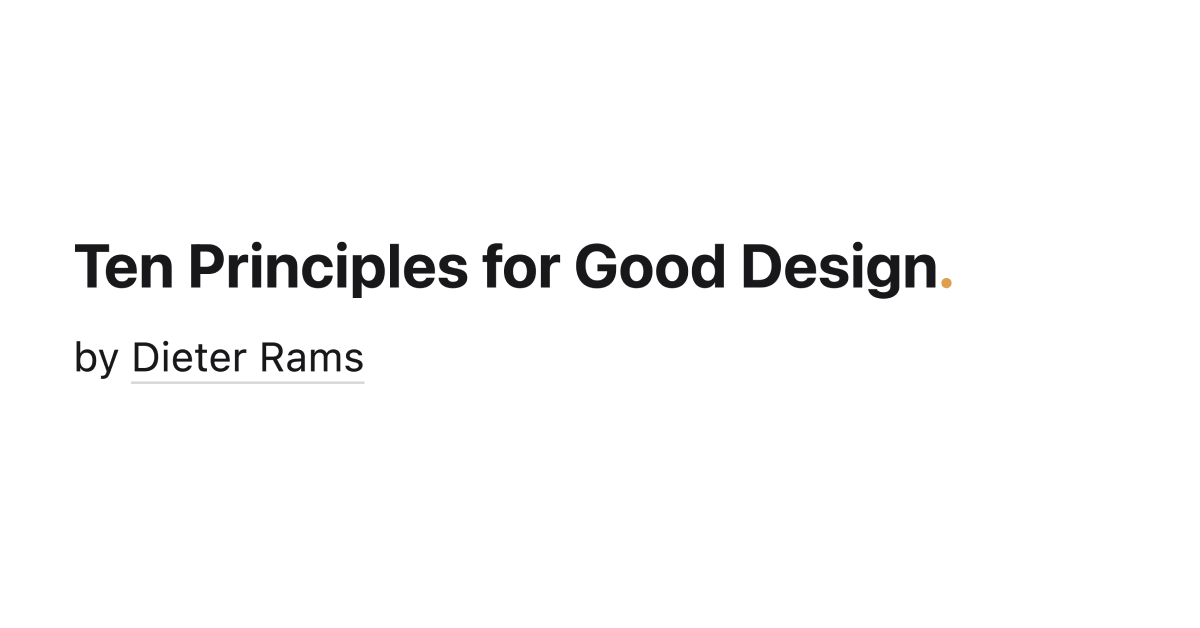
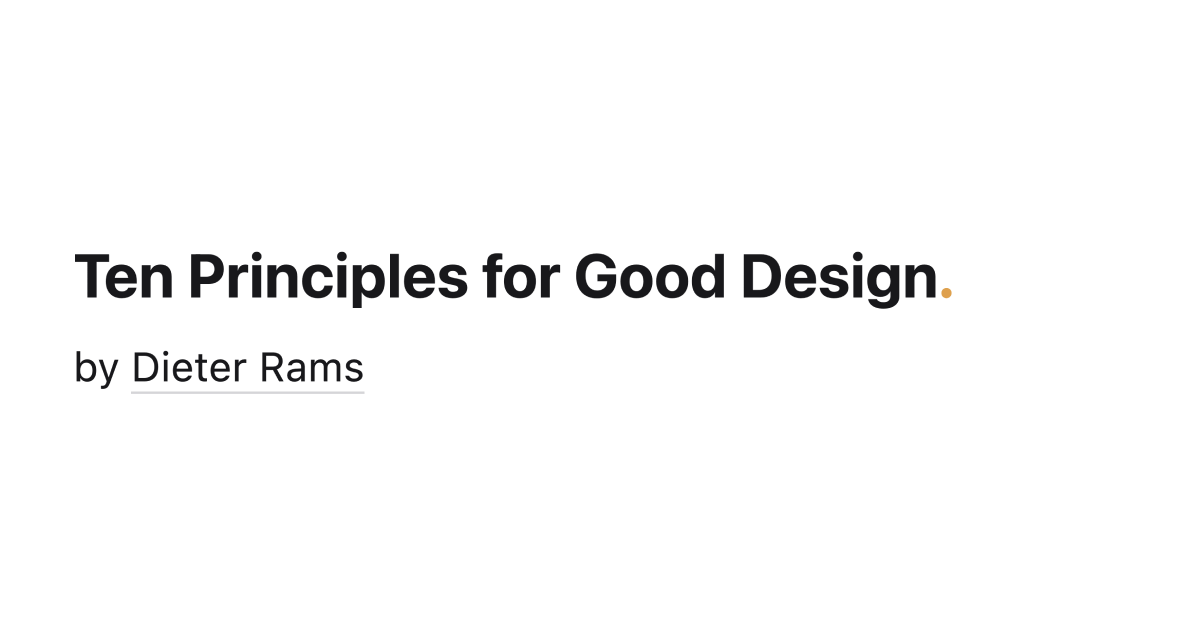
chore: slightly off-center og-image

Changed region(s): [[0.0617, 0.3631, 0.8017, 0.5143], [0.0617, 0.5446, 0.3083, 0.6354]]

diff --git a/README.md b/README.md
@@ -3,7 +3,7 @@
 </h1>
 
 <p align="center">
-  <strong>Dieter Rams' Ten Principles for Good Design</strong>
+  "Ten Principles for Good Design" by Dieter Rams
 </p>
 
 <p align="center">
